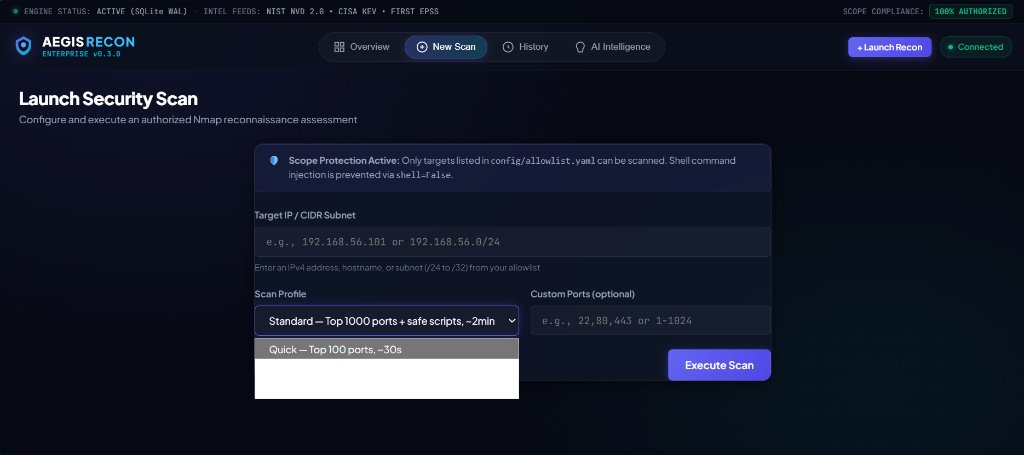
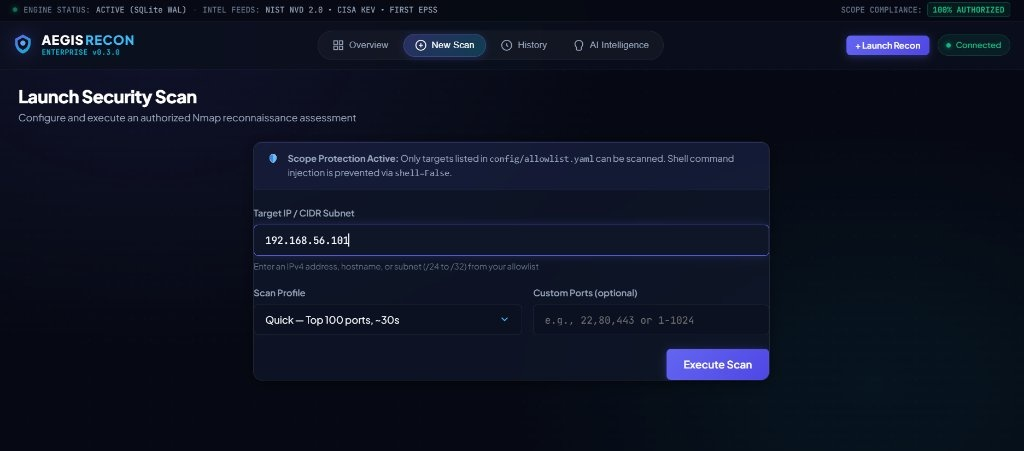
docs: overhaul platform showcase with enterprise Cyber SOC screenshots

diff --git a/README.md b/README.md
@@ -26,24 +26,38 @@ Traditional vulnerability scanners often suffer from high false-positive rates, 
 
 ## 🖥 Platform Showcase
 
-| Security Assessment Dashboard (Cyber SOC Matrix) |
+| Executive Cyber SOC Dashboard & Target Fleet Matrix |
 |:---:|
-| ![Security Assessment Dashboard](docs/images/dashboard.png) |
-| *Real-time metrics, Target Fleet Matrix, CVSS v3.1 donut severity distribution, and 4-tier evidence model.* |
+| ![SOC Dashboard & Fleet Matrix](docs/images/dashboard_overview.jpg) |
+| *Real-time telemetry, 4 core KPI metrics, and authenticated target fleet matrix across Production, Staging, Dev, and Lab.* |
 
 <br>
 
-| Vulnerability Findings & Analyst Triage | Scope-Protected Scan Execution |
+| CVSS v3.1 Severity Analytics & Evidence Model | Recent Reconnaissance Audit Log |
 |:---:|:---:|
-| ![Vulnerability Findings](docs/images/vulnerability_findings.jpg) | ![Launch Security Scan](docs/images/new_scan.jpg) |
-| *Correlated CVEs, CVSS ratings, CISA KEV tags, and Analyst Actions.* | *CIDR subnet validation, scan profiles, and safe subprocess orchestration.* |
+| ![CVSS Severity Distribution](docs/images/dashboard_charts.jpg) | ![Recent Scans Audit Log](docs/images/recent_scans.jpg) |
+| *22-vulnerability donut distribution and strict 4-tier evidence provenance taxonomy.* | *Persistent SQLite WAL audit log of completed reconnaissance assessments.* |
 
 <br>
 
-| AI Threat Intelligence & Grounded Mitigation Guidance |
+| Discovered Network Services & CPE Fingerprints | Correlated Vulnerabilities & Analyst Triage |
+|:---:|:---:|
+| ![Discovered Network Services](docs/images/discovered_services.jpg) | ![Vulnerability Findings & Triage](docs/images/vulnerability_findings.jpg) |
+| *Nmap banner-grabbed service discovery with native CPE 2.3 identifiers.* | *Correlated CVEs, CISA KEV badges, EPSS ratings, and 6 analyst triage actions.* |
+
+<br>
+
+| Scope-Protected Scan Execution | AI Threat Intelligence Assessment |
+|:---:|:---:|
+| ![Launch Recon & Scope Protection](docs/images/new_scan.jpg) | ![AI Threat Intelligence Analysis](docs/images/ai_intelligence.jpg) |
+| *Policy-governed CIDR allowlist validation with shell injection safeguards.* | *Deterministic executive risk summary and structured exploitability vectors.* |
+
+<br>
+
+| Actionable Defensive Remediation Playbook |
 |:---:|
-| ![AI Threat Intelligence Analysis](docs/images/ai_intelligence.jpg) |
-| *Structured executive summaries, risk overview cards, actionable remediation steps, and operational boundaries.* |
+| ![Actionable Mitigation Playbook](docs/images/ai_recommendations.jpg) |
+| *Prioritized mitigation steps (`URGENT KEV`, `CRITICAL`, `HIGH`, `VERIFY`, `DEFENSE`, `UPDATE`), evidence calibration notes, and operational boundaries.* |
 
 ---
 
